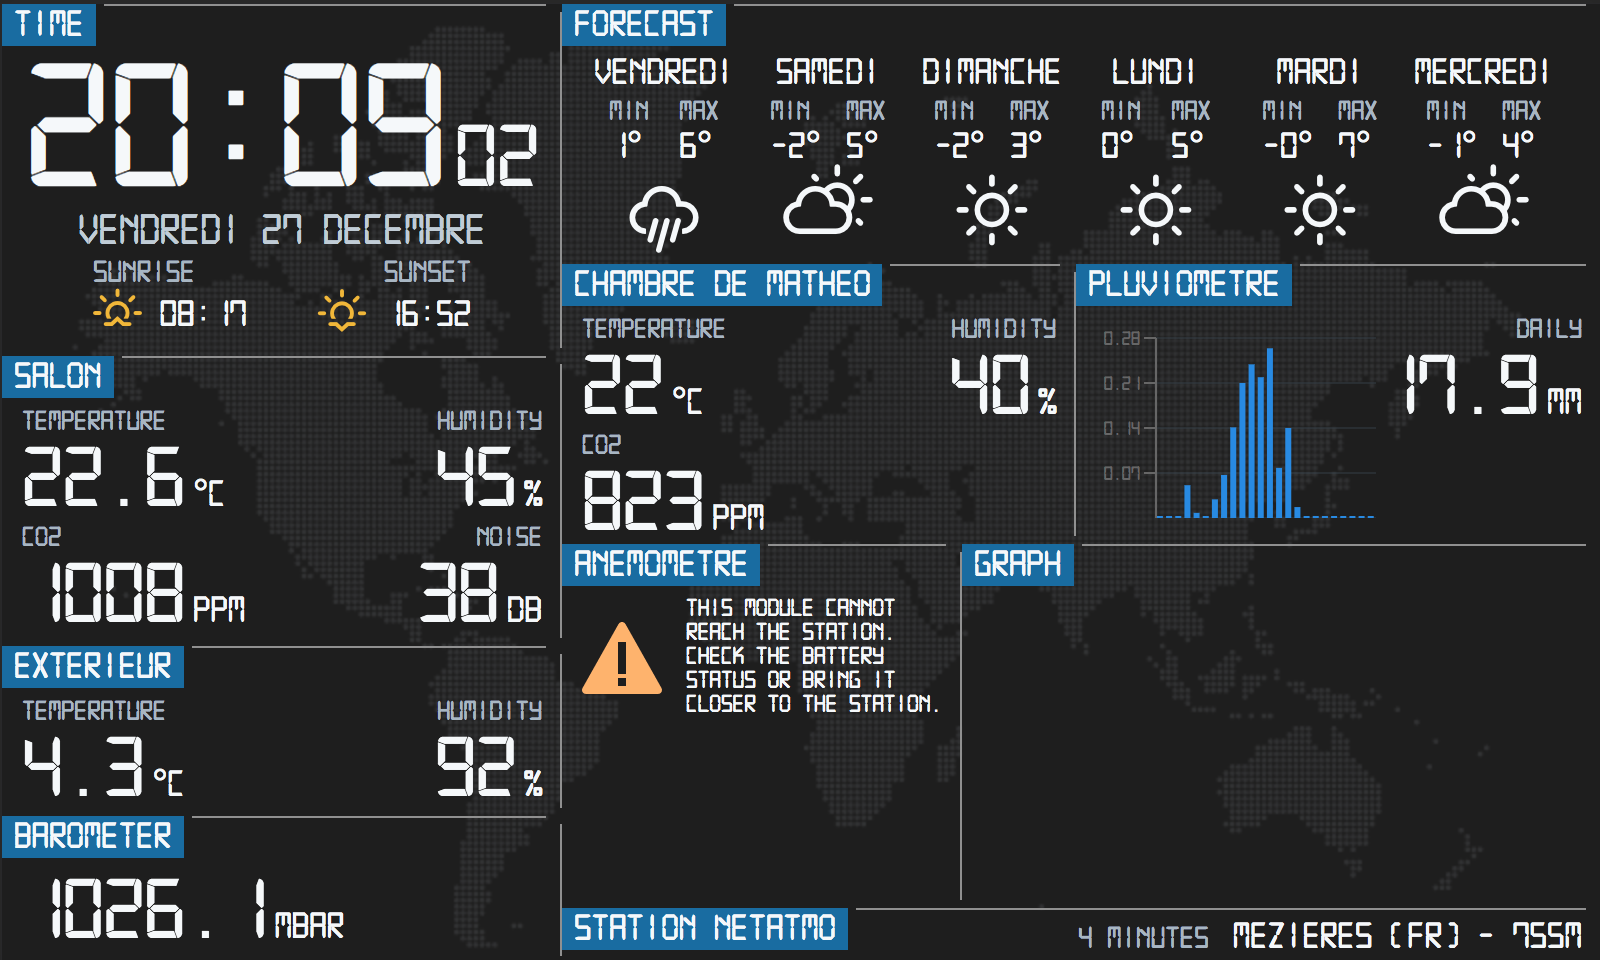
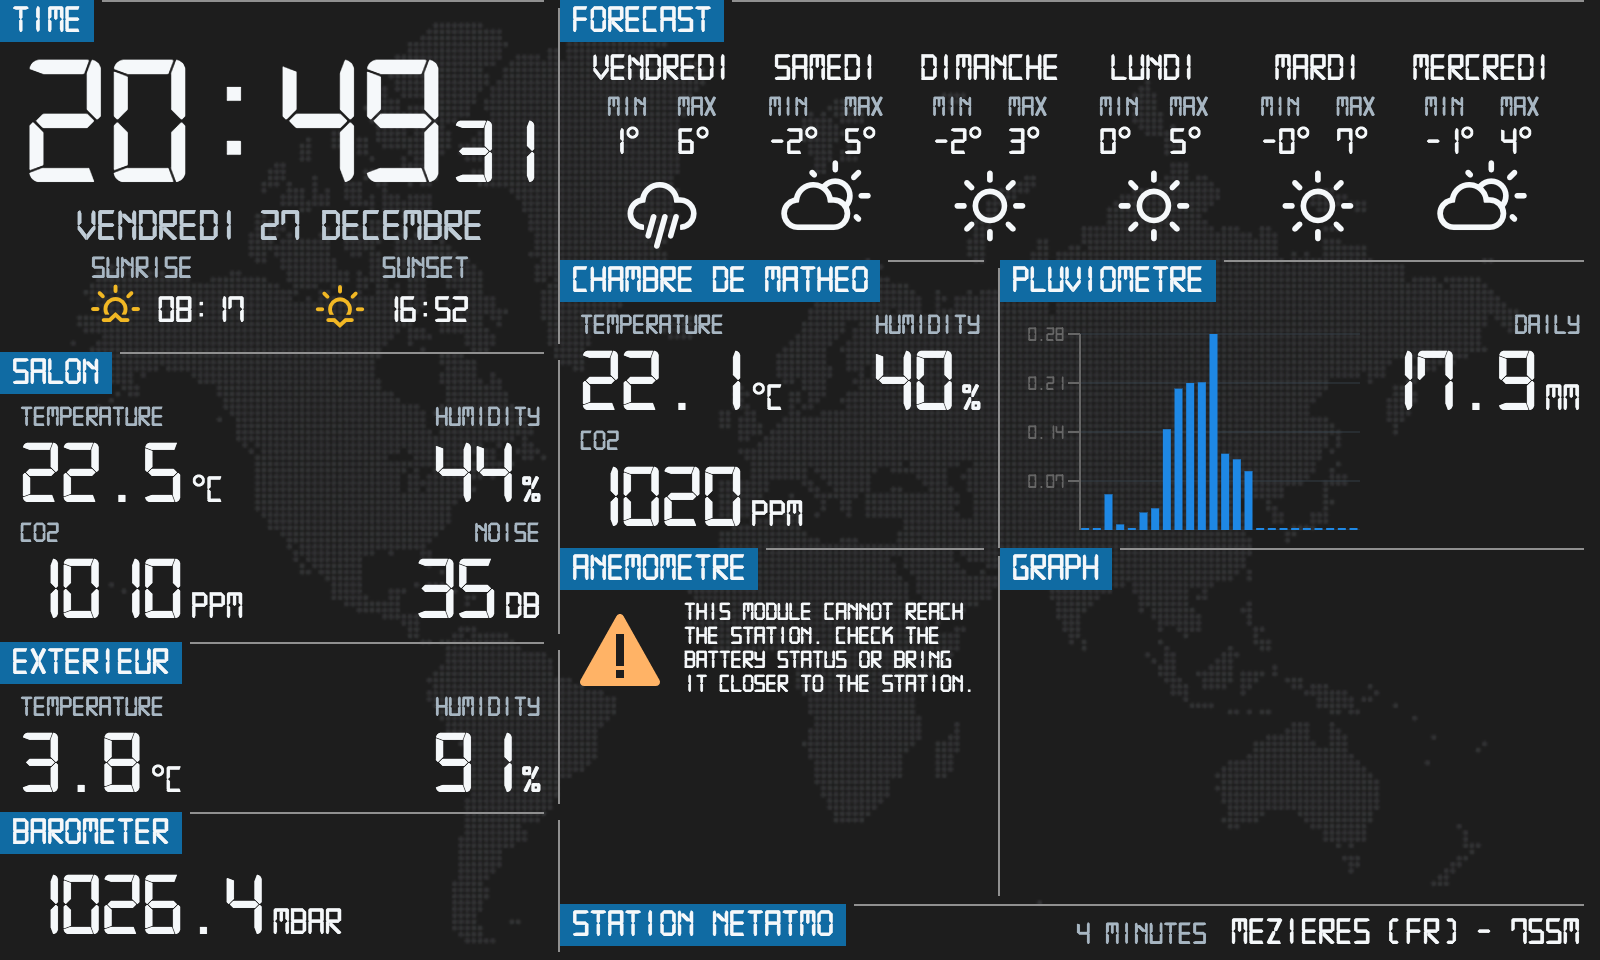
Minor design corrections

Changed region(s): [[0.0, 0.0, 0.9688, 1.0], [0.3438, 0.9375, 1.0, 1.0], [0.875, 0.3125, 1.0, 0.4375]]

diff --git a/client/components/App.tsx b/client/components/App.tsx
@@ -47,11 +47,11 @@ class App extends React.Component<AllProps> {
                             </div>
                             <div className="second-column">
                                 <ModuleForecastContainer />
-                                <div className="row">
+                                <div className="row-grid">
                                     <ModuleNetatmoIndoorContainer />
                                     <ModuleNetatmoRainContainer />
                                 </div>
-                                <div className="row">
+                                <div className="row-grid">
                                     <ModuleNetatmoWindContainer />
                                     <ModuleNetatmoGraph />
                                 </div>

diff --git a/client/layouts/ModuleLayout.tsx b/client/layouts/ModuleLayout.tsx
@@ -9,6 +9,7 @@ interface IPropsFromState {
     reachable?: boolean
     last_seen?: number
     fill?: boolean
+    vertical_divider?: boolean
 }
 
 const ModuleLayout: React.FunctionComponent<IPropsFromState> = (props) => {
@@ -25,7 +26,11 @@ const ModuleLayout: React.FunctionComponent<IPropsFromState> = (props) => {
                     <ModuleNetatmoNotReachable last_seen={props.last_seen} />
                 )
             }
-            <div className="vertical-right-divider" />
+            {
+                props.vertical_divider && (
+                    <div className="vertical-right-divider" />
+                )
+            }
         </div>
     )
 };

diff --git a/client/components/ModuleDateTime.tsx b/client/components/ModuleDateTime.tsx
@@ -58,7 +58,7 @@ class ModuleDateTime extends React.Component<IPropsFromState, IState> {
         let moment = momentWithLocale(this.props.locale);
 
         return (
-            <ModuleLayout label='Time' reachable={true}>
+            <ModuleLayout label='Time' reachable={true} vertical_divider={true}>
                 <div className="module-datetime">
                     <div className="time">{ this.state.hour }:{ this.state.minutes }<small>{this.state.seconds}</small></div>
                     <div className="date" style={{ color: Colors.GRAY5 }}>{ removeAccents(this.state.date) }</div>

diff --git a/client/components/ModuleNetatmoIndoor.tsx b/client/components/ModuleNetatmoIndoor.tsx
@@ -17,7 +17,7 @@ const NetatmoModuleIndoor: React.FunctionComponent<IPropsFromState> = (props) =>
             label={props.module_data?.module_name}
             reachable={props.module_data?.reachable}
             last_seen={props.module_data?.last_seen}
-            fill={true}
+            vertical_divider={true}
         >
             <div className="modules-layout">
                 <div className="row">

diff --git a/client/components/ModuleNetatmoRainGraph.tsx b/client/components/ModuleNetatmoRainGraph.tsx
@@ -40,8 +40,8 @@ class ModuleNetatmoRainGraph extends React.Component<AllProps> {
     render() {
         return(
             <BarChart
-                width={140}
-                height={100}
+                width={170}
+                height={108}
                 data={this.props.data}
                 syncId="anyId"
                 margin={{top: 10, right: 0, left: -30, bottom: 0}}

diff --git a/client/components/ModuleNetatmoOutdoor.tsx b/client/components/ModuleNetatmoOutdoor.tsx
@@ -17,6 +17,7 @@ const NetatmoModuleOutdoor: React.FunctionComponent<IPropsFromState> = (props) =
             label={props.module_data?.module_name}
             reachable={props.module_data?.reachable}
             last_seen={props.module_data?.last_seen}
+            vertical_divider={true}
         >
             <div className="modules-layout">
                 <div className="row">

diff --git a/client/components/ModuleNetatmoStation.tsx b/client/components/ModuleNetatmoStation.tsx
@@ -16,6 +16,7 @@ const NetatmoModuleStation: React.FunctionComponent<IPropsFromState> = (props) =
         <ModuleLayout
             label={props.station_data?.module_name}
             reachable={props.station_data?.reachable}
+            vertical_divider={true}
         >
             <div className="modules-layout">
                 <div className="row">

diff --git a/client/components/ModuleNetatmoWind.tsx b/client/components/ModuleNetatmoWind.tsx
@@ -17,6 +17,7 @@ const NetatmoModuleWind: React.FunctionComponent<IPropsFromState> = (props) => {
         <ModuleLayout
             label={props.module_data?.module_name}
             reachable={props.module_data?.reachable}
+            vertical_divider={true}
         >
             <div className="modules-layout">
                 <div className="row">

diff --git a/client/components/ModuleNetatmoRain.tsx b/client/components/ModuleNetatmoRain.tsx
@@ -16,7 +16,6 @@ const NetatmoModuleRain: React.FunctionComponent<IPropsFromState> = (props) => {
         <ModuleLayout
             label={props.module_data?.module_name}
             reachable={props.module_data?.reachable}
-            fill={true}
         >
             <div className="modules-layout">
                 <div className="row">

diff --git a/client/components/ModuleNetatmoBarometer.tsx b/client/components/ModuleNetatmoBarometer.tsx
@@ -15,6 +15,7 @@ const NetatmoModuleBarmometer: React.FunctionComponent<IPropsFromState> = (props
         <ModuleLayout
             label="Barometer"
             reachable={props.reachable}
+            vertical_divider={true}
         >
             <div className="modules-layout">
                 <div className="row">

diff --git a/client/components/ModuleNetatmoGraph.tsx b/client/components/ModuleNetatmoGraph.tsx
@@ -14,7 +14,6 @@ const NetatmoModuleGraph: React.FunctionComponent<IPropsFromState> = (props) => 
         <ModuleLayout
             label="Graph"
             reachable={true}
-            fill={true}
         >
             <div className="modules-layout">
                 <div style={{width: '300px'}} />

diff --git a/client/css/style.scss b/client/css/style.scss
@@ -206,10 +206,11 @@ body {
 
   .second-column {
     display: grid;
-    grid-template-rows: 130px 140px 182px 28px;
+    grid-template-rows: 130px 144px 178px 28px;
 
-    .row {
-      display: flex;
+    .row-grid {
+      display: grid;
+      grid-template-columns: 220px 300px;
     }
   }
 }
